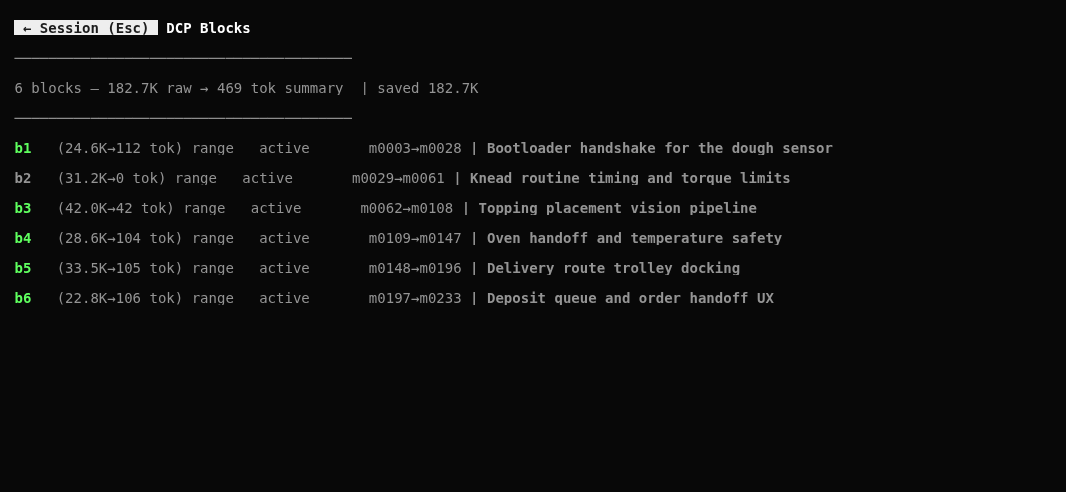
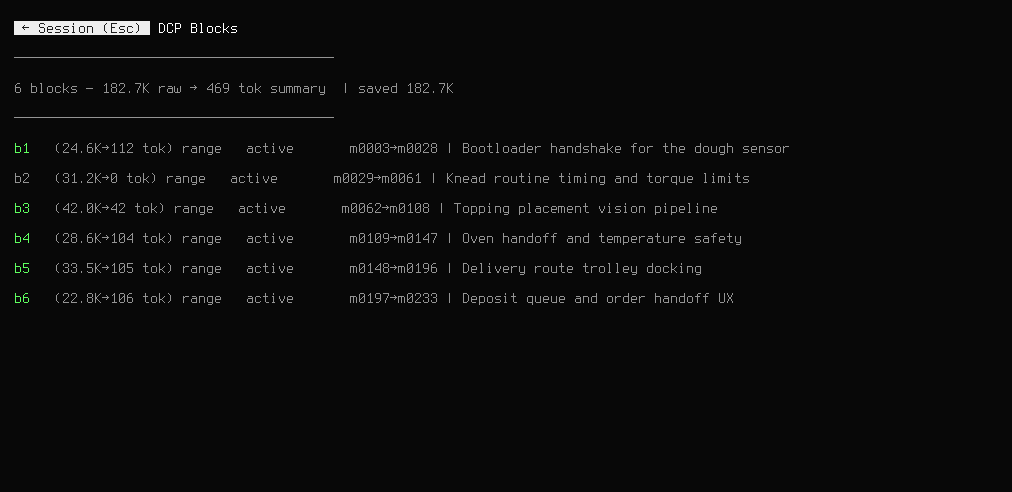
change screenshot rendering font

diff --git a/scripts/tui-pty-driver.py b/scripts/tui-pty-driver.py
@@ -27,12 +27,12 @@ import time
 
 TERMINATE = b"\x03\x03"
 
-# Screen-to-PNG metrics. CHAR_W_PX is the advance of DejaVu Sans Mono at
-# FONT_SIZE_PX (0.602 em); keep the chromium viewport exactly this size so the
+# Screen-to-PNG metrics. CHAR_W_PX is the advance of Terminus (TTF) at
+# FONT_SIZE_PX (0.571 em); keep the chromium viewport exactly this size so the
 # screenshot has no empty margin to the right.
 FONT_SIZE_PX = 14
 LINE_H_PX = 15
-CHAR_W_PX = FONT_SIZE_PX * 0.602
+CHAR_W_PX = 8.0
 SCREEN_PAD_PX = 6
 
 
@@ -379,7 +379,7 @@ class Screen:
         return (
             "<!doctype html><html><head><meta charset=\"utf-8\"><style>"
             f"html,body{{margin:0;background:{screen_bg};}}"
-            ".screen{font-family:'DejaVu Sans Mono',monospace;"
+            ".screen{font-family:'Terminus (TTF)','DejaVu Sans Mono',monospace;"
             f"font-size:{FONT_SIZE_PX}px;color:#ffffff;"
             "white-space:pre;display:inline-block;"
             f"padding:{SCREEN_PAD_PX}px;}}"
